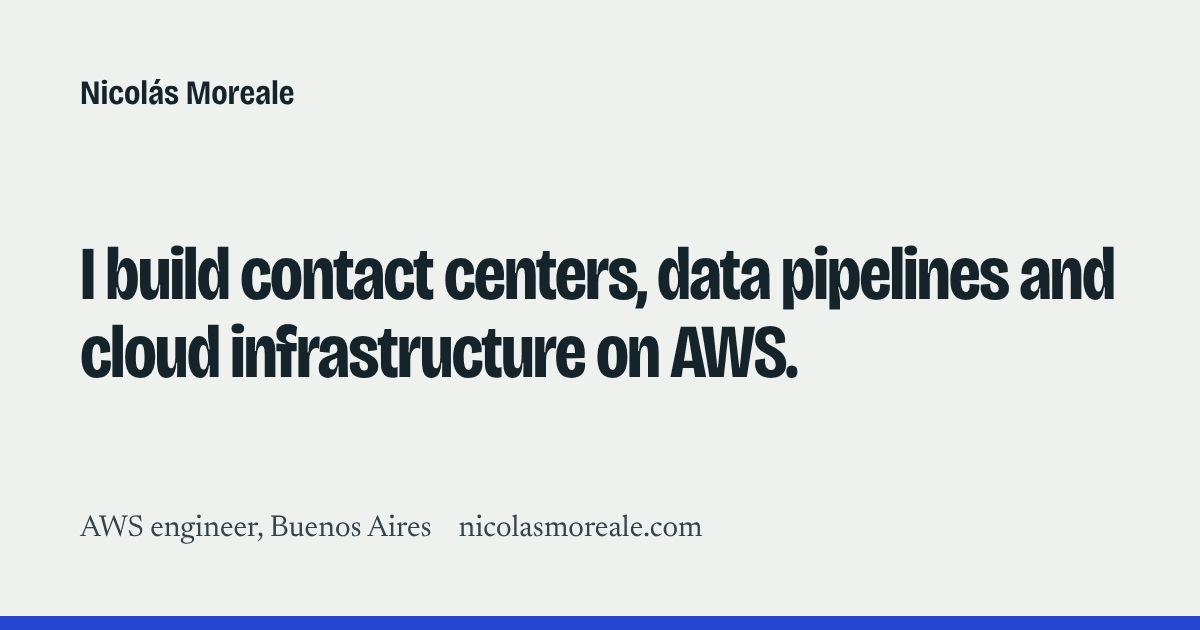
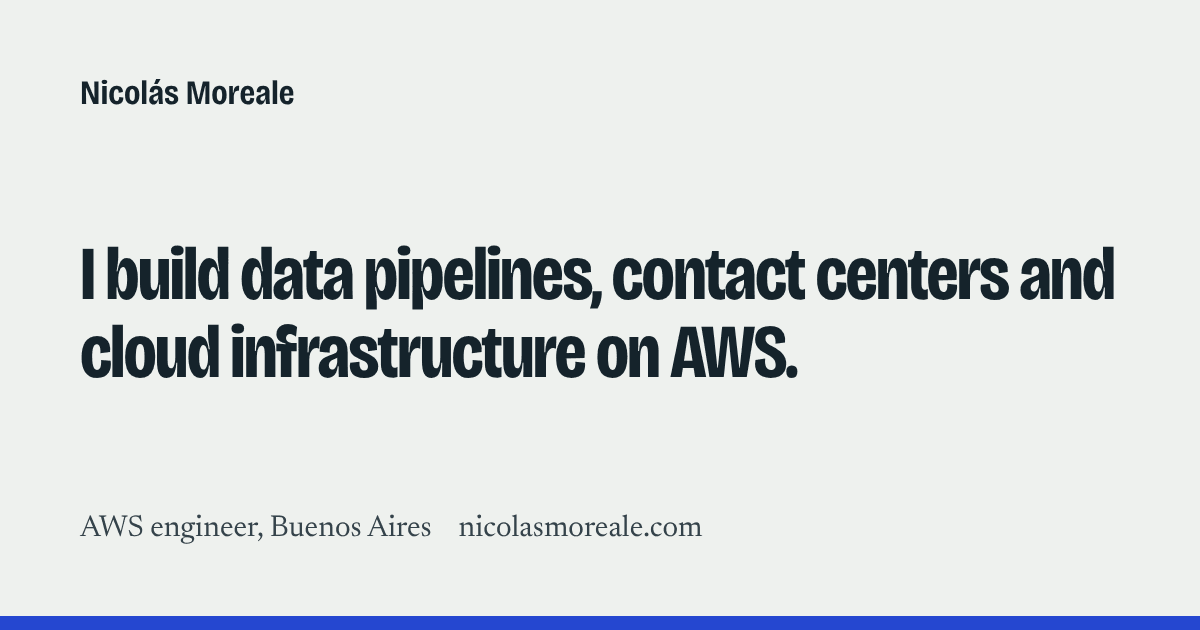
Lead with data engineering, then contact centers
Data engineering is now the first area everywhere: headline, services, case studies, About and the hero diagram, which shows a data pipeline with Amazon Connect as one of its sources.

Claude-Session: https://claude.ai/code/session_01CWSdJFBvvc1XxAfPEvnCAp

Changed region(s): [[0.2158, 0.3921, 0.8325, 0.4825]]

diff --git a/site/src/site.config.ts b/site/src/site.config.ts
@@ -3,9 +3,9 @@
 export const site = {
   name: 'Nicolás Moreale',
   url: 'https://nicolasmoreale.com',
-  title: 'AWS engineer for contact centers, data and cloud',
+  title: 'AWS engineer for data, contact centers and cloud',
   description:
-    'Independent AWS engineer in Buenos Aires. I build Amazon Connect contact centers, data pipelines and data lakes, and the AWS infrastructure they run on, for teams in the US and Europe.',
+    'Independent AWS engineer in Buenos Aires. I build data pipelines and data lakes, Amazon Connect contact centers, and the AWS infrastructure they run on, for teams in the US and Europe.',
   location: 'Buenos Aires, Argentina',
 
   email: 'hello@nicolasmoreale.com',
@@ -41,8 +41,45 @@ export type Practice = {
   services: Service[];
 };
 
-// The three areas of work. Amazon Connect comes first because it's most of the work today.
+// The three areas of work, in the order they're shown: data first, then contact centers, then cloud.
 export const practices: Practice[] = [
+  {
+    slug: 'data',
+    name: 'Data engineering',
+    tools: 'S3, Glue and PySpark, Athena, Lambda, EventBridge, QuickSight',
+    summary:
+      'Pipelines that bring data from databases, files and APIs into S3, a data lake you can query with SQL, and dashboards built on data that has been cleaned and checked.',
+    services: [
+      {
+        slug: 'data-pipelines',
+        name: 'Data pipelines',
+        summary:
+          'Batch and event-driven pipelines that bring data from your systems into S3, cleaned, partitioned and checked, with an alert when a load fails.',
+        format: 'Project',
+        includes: [
+          'Ingestion from relational databases, REST APIs, CSV exports and file drops',
+          'Cleansing, validation, deduplication and transformations in AWS Glue with PySpark',
+          'Automation with Lambda, EventBridge and Step Functions',
+          'Curated datasets in Parquet, with CloudWatch monitoring and failure alerts',
+          'Moving existing jobs from Azure Data Factory, scripts or legacy tools',
+        ],
+      },
+      {
+        slug: 'data-lakes-and-reporting',
+        name: 'Data lakes and reporting',
+        summary:
+          'An S3 data lake with Athena on top, and reports whose numbers you can defend, including contact-center data from Amazon Connect.',
+        format: 'Project',
+        includes: [
+          'S3 data lake with the Glue Data Catalog and Athena',
+          'Amazon Connect data lake and contact-center analytics',
+          'Metric definitions written down and tested against the raw data',
+          'Mapping legacy reports to the new source, with side-by-side checks',
+          'Dashboards in Amazon QuickSight, or scheduled reports by email',
+        ],
+      },
+    ],
+  },
   {
     slug: 'contact-centers',
     name: 'Contact centers',
@@ -92,43 +129,6 @@ export const practices: Practice[] = [
           'Bots that answer the common questions before a caller reaches the queue',
           'Post-call summaries and transcripts with Contact Lens',
           'Reporting on what callers actually ask about',
-        ],
-      },
-    ],
-  },
-  {
-    slug: 'data',
-    name: 'Data engineering',
-    tools: 'S3, Glue and PySpark, Athena, Lambda, EventBridge, QuickSight',
-    summary:
-      'Pipelines that bring data from databases, files and APIs into S3, a data lake you can query with SQL, and dashboards built on data that has been cleaned and checked.',
-    services: [
-      {
-        slug: 'data-pipelines',
-        name: 'Data pipelines',
-        summary:
-          'Batch and event-driven pipelines that bring data from your systems into S3, cleaned, partitioned and checked, with an alert when a load fails.',
-        format: 'Project',
-        includes: [
-          'Ingestion from relational databases, REST APIs, CSV exports and file drops',
-          'Cleansing, validation, deduplication and transformations in AWS Glue with PySpark',
-          'Automation with Lambda, EventBridge and Step Functions',
-          'Curated datasets in Parquet, with CloudWatch monitoring and failure alerts',
-          'Moving existing jobs from Azure Data Factory, scripts or legacy tools',
-        ],
-      },
-      {
-        slug: 'data-lakes-and-reporting',
-        name: 'Data lakes and reporting',
-        summary:
-          'An S3 data lake with Athena on top, and reports whose numbers you can defend, including contact-center data from Amazon Connect.',
-        format: 'Project',
-        includes: [
-          'S3 data lake with the Glue Data Catalog and Athena',
-          'Amazon Connect data lake and contact-center analytics',
-          'Metric definitions written down and tested against the raw data',
-          'Mapping legacy reports to the new source, with side-by-side checks',
-          'Dashboards in Amazon QuickSight, or scheduled reports by email',
         ],
       },
     ],

diff --git a/site/src/content/work/voicemail-notifications.md b/site/src/content/work/voicemail-notifications.md
@@ -3,7 +3,7 @@ title: Why voicemail emails stopped for three programs
 summary: On one instance, voicemail notifications worked for three programs and never arrived for three others. Comparing the flows side by side narrowed it to a few missing attributes and the delivery mapping.
 context: Pharmaceutical patient-support contact center, test environment
 area: Contact centers
-order: 5
+order: 4
 stack:
   - Amazon Connect contact flows
   - Flow JSON exports

diff --git a/site/src/content/work/operational-data-lake.md b/site/src/content/work/operational-data-lake.md
@@ -3,7 +3,7 @@ title: One data lake for operational data spread across many sources
 summary: Operational data lived in databases, CSV exports and APIs, and reporting depended on preparing it by hand. I built a data lake and ETL pipeline on AWS so business teams get consistent reports without the manual work.
 context: Company centralizing its operational data
 area: Data engineering
-order: 2
+order: 1
 stack:
   - Amazon S3
   - AWS Glue with PySpark

diff --git a/site/src/content/work/call-notes-for-supervisors.md b/site/src/content/work/call-notes-for-supervisors.md
@@ -3,7 +3,7 @@ title: After-call notes that supervisors can actually read
 summary: Agents' notes lived in contact attributes that supervisors couldn't export. I set up the Amazon Connect data lake and scheduled CSV reports by email.
 context: Pharmaceutical patient-support contact center
 area: Data engineering
-order: 4
+order: 2
 stack:
   - Amazon Connect data lake
   - Amazon Athena

diff --git a/site/src/content/work/this-website-on-aws.md b/site/src/content/work/this-website-on-aws.md
@@ -3,7 +3,7 @@ title: This website and its email, on AWS for about a dollar a month
 summary: A static site behind CloudFront, deployed from GitHub with no stored AWS keys, and email on my own domain through SES. All of it defined in AWS CDK, in my own account.
 context: My own consulting business
 area: Cloud infrastructure
-order: 3
+order: 5
 stack:
   - AWS CDK
   - CloudFront and S3

diff --git a/site/src/content/work/legacy-reports-to-connect.md b/site/src/content/work/legacy-reports-to-connect.md
@@ -3,7 +3,7 @@ title: Reports that match the contract after leaving NICE
 summary: Mapped eight legacy NICE inContact reports to Amazon Connect, and caught a service-level number that counted hang-ups as success.
 context: Pharmaceutical patient-support contact center
 area: Contact centers
-order: 1
+order: 3
 stack:
   - Amazon Connect historical metrics
   - Amazon Connect dashboards
